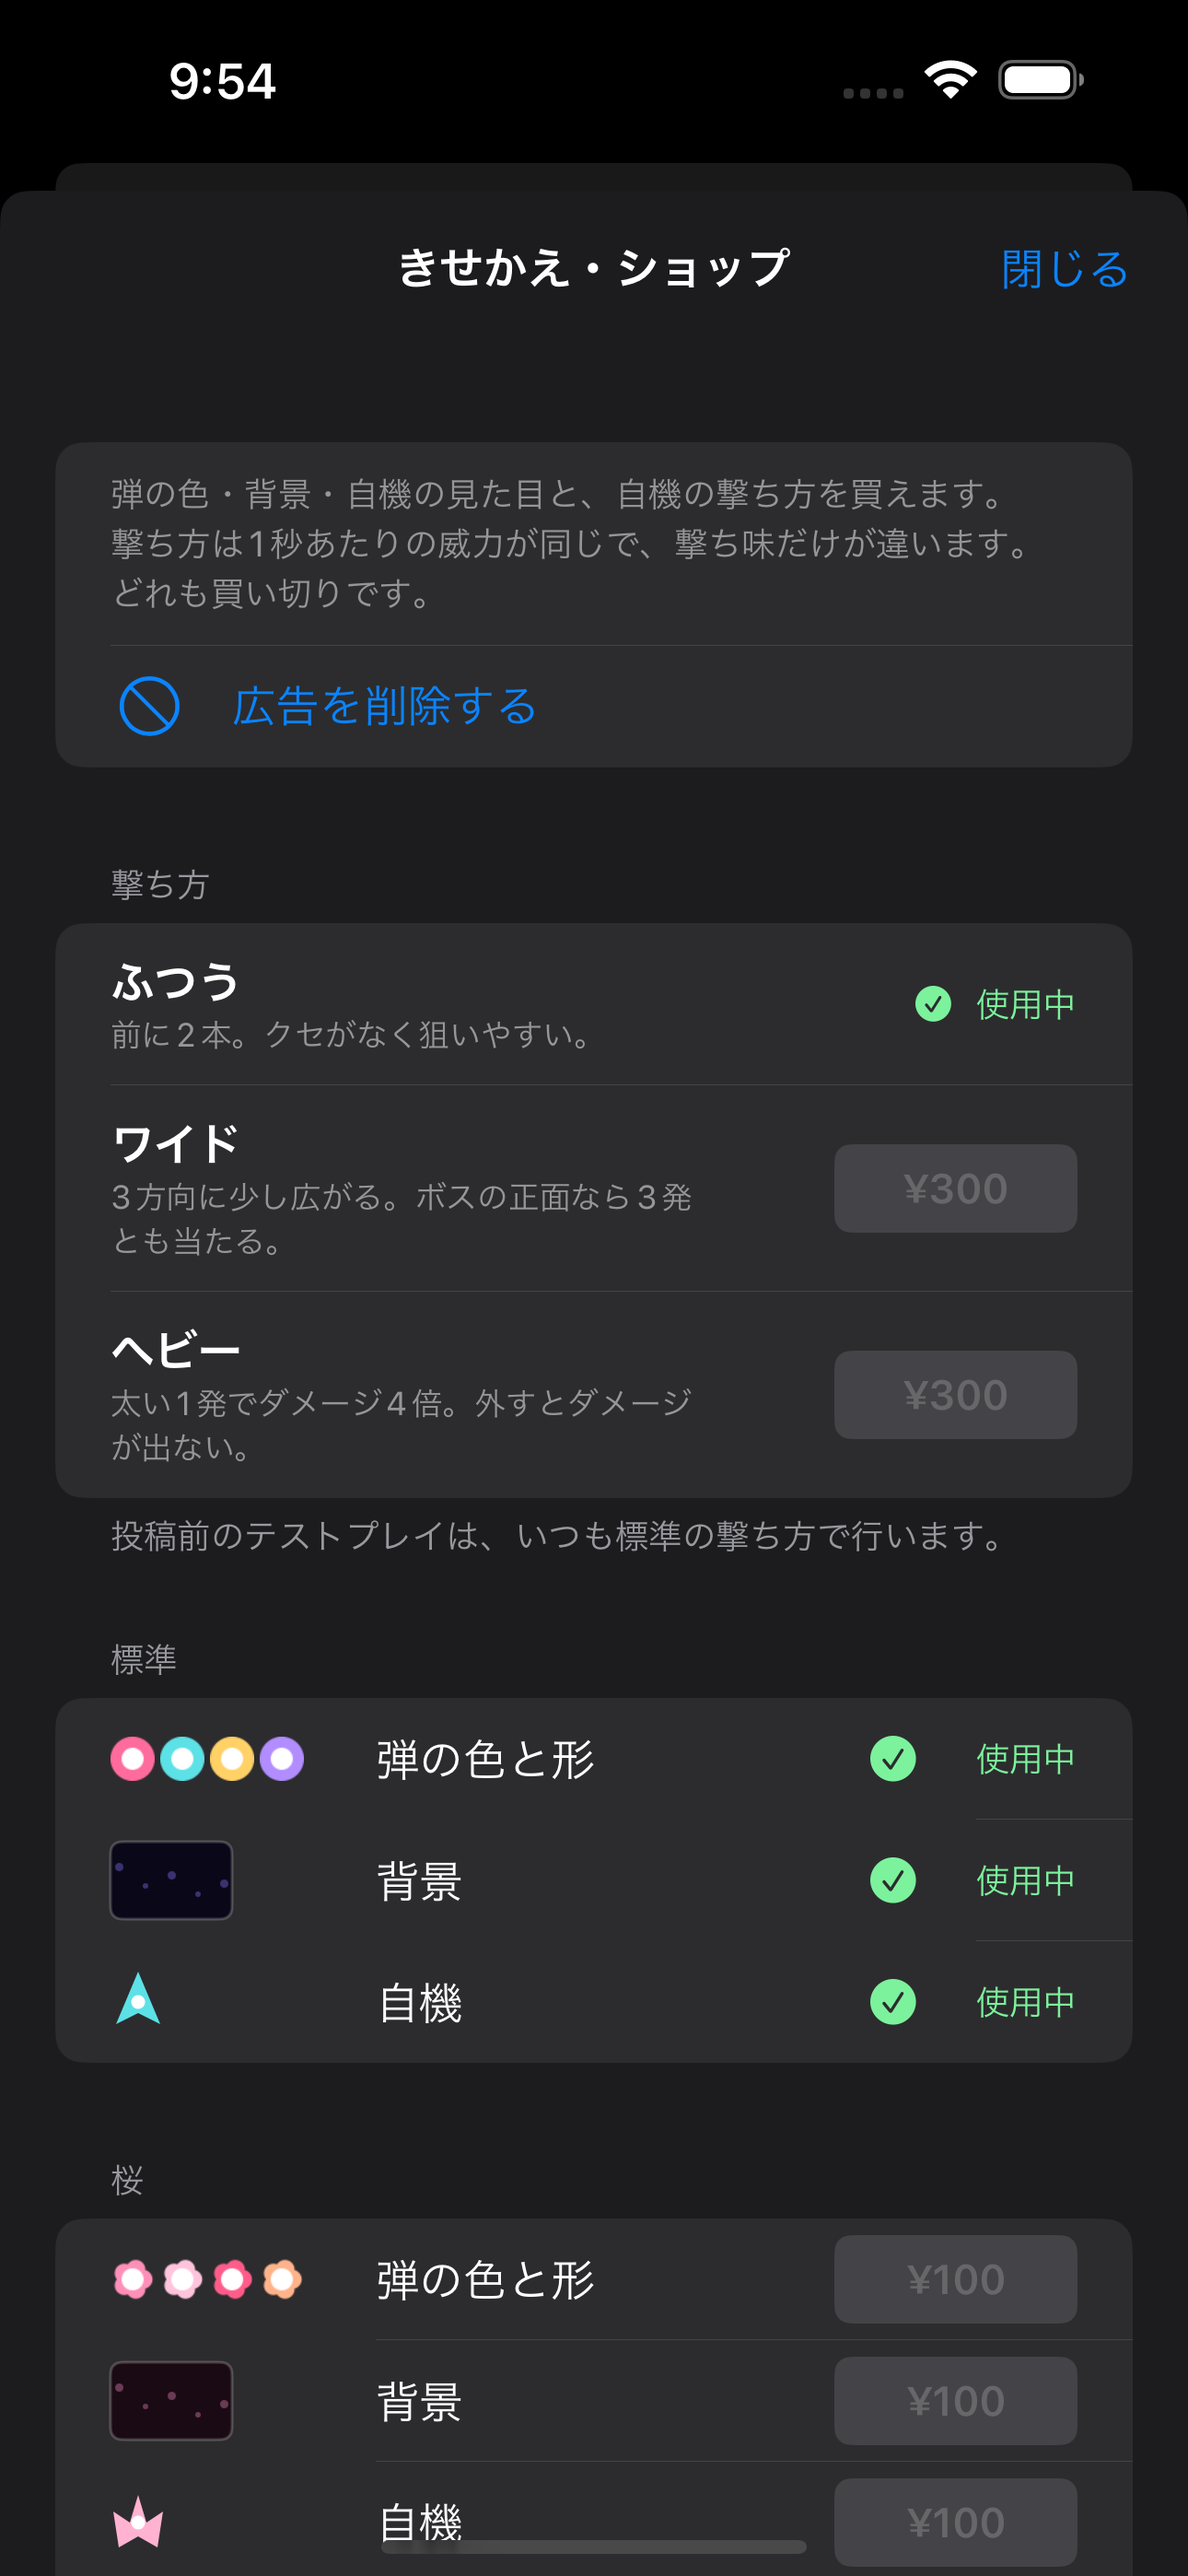
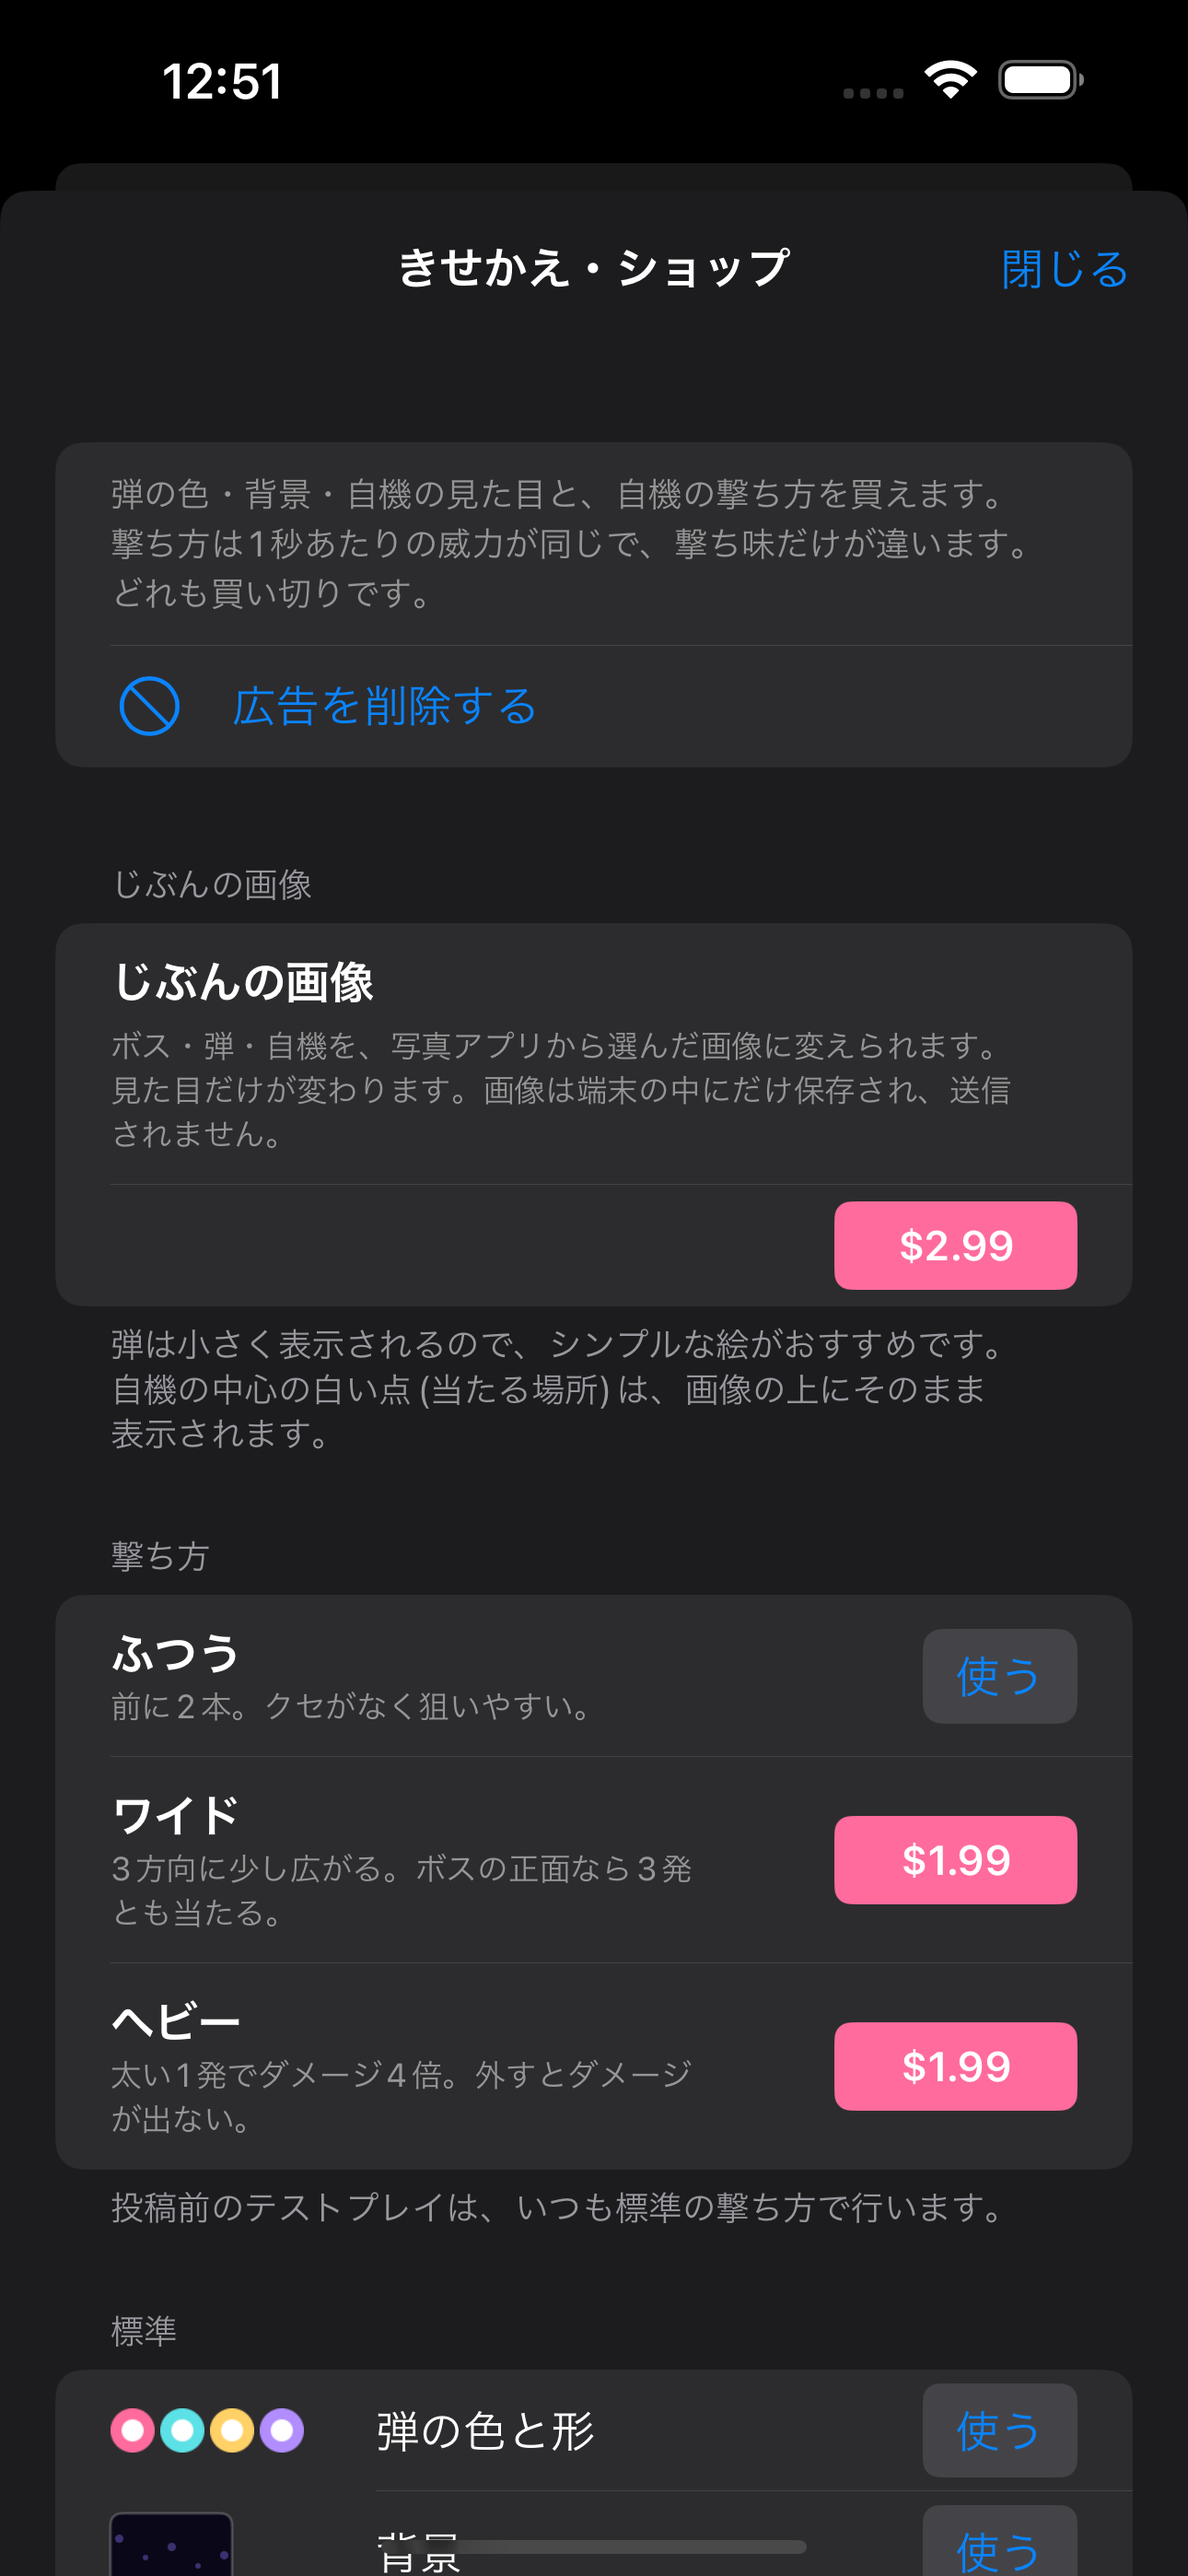
提出直前の記録と紹介画像、下書き追加スクリプトを追加

diff --git a/docs/SUBMISSION_CHECKLIST.md b/docs/SUBMISSION_CHECKLIST.md
@@ -103,3 +103,13 @@ Secrets に `ASC_KEY_ID` `ASC_ISSUER_ID` `ASC_KEY_P8_BASE64` `GOOGLE_SERVICE_INF
 - 権利 `no_ads` に `com.koshin.danmakumaker.removeads` を結びつけ済み。
 - オファリング `default` に、Lifetime パッケージ(広告削除)を作成済み。
 - アプリの公開キーは `project.yml` の `REVENUECAT_API_KEY` に設定済み(公開キーなのでコミットしてよい)。
+
+## 追加: 提出直前の状態(2026-10-19 夜)
+- アプリ内購入は16個(広告削除 ¥600、パーツ12個 ¥100〜¥200、撃ち方2個 ¥300、じぶんの画像 ¥500)。すべて App Store Connect と RevenueCat に登録済み。
+- アプリアイコンを設定済み(`tools/make_app_icon.py` で、ゲームの実際の部品から生成)。
+- ビルド 1.0.0 (4) を GitHub Actions(`.github/workflows/testflight.yml`)で作って TestFlight に配信済み。内部テスト「内部テスト」グループに Koshin(koushin0224@icloud.com)を追加済み。
+- App Store Connect の「提出物の下書き」には、iOS 1.0.0 (4) とアプリ内購入16個、合計17件が入っている。
+- コンテンツ配信権は「はい(必要な権利を保有)」にした(他のユーザーが投稿したステージを表示するため)。
+- **最後の「審査へ提出」は、Koshin が実機確認のあとに押す。** 場所: App Store Connect →「弾幕メーカー」→「配信」→「iOSアプリ 1.0」→ 右下の「提出物の下書き」→「審査へ提出」。
+- ビルドを作り直すとき: `gh workflow run TestFlight --ref main`(Secrets は GitHub に登録済み)。新しいビルドができたら、バージョンページの「ビルド」で選び直す。
+- 紹介画像(スクリーンショット)は、日英とも5枚(ゲーム画面)。ショップ画面の画像は `docs/store_screenshots/` にあるが、App Store には未登録(任意)。
